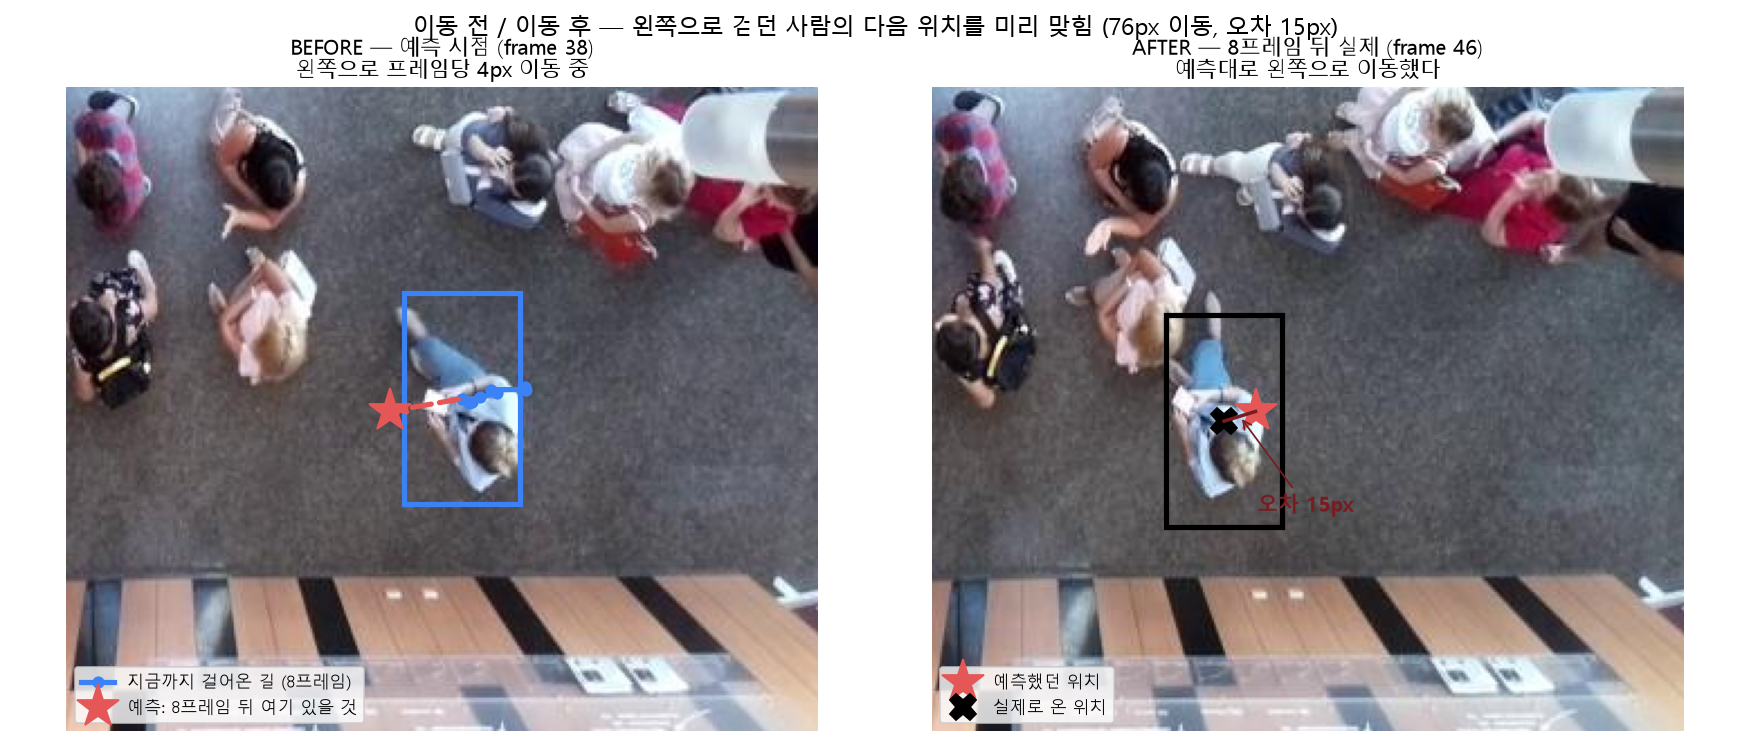
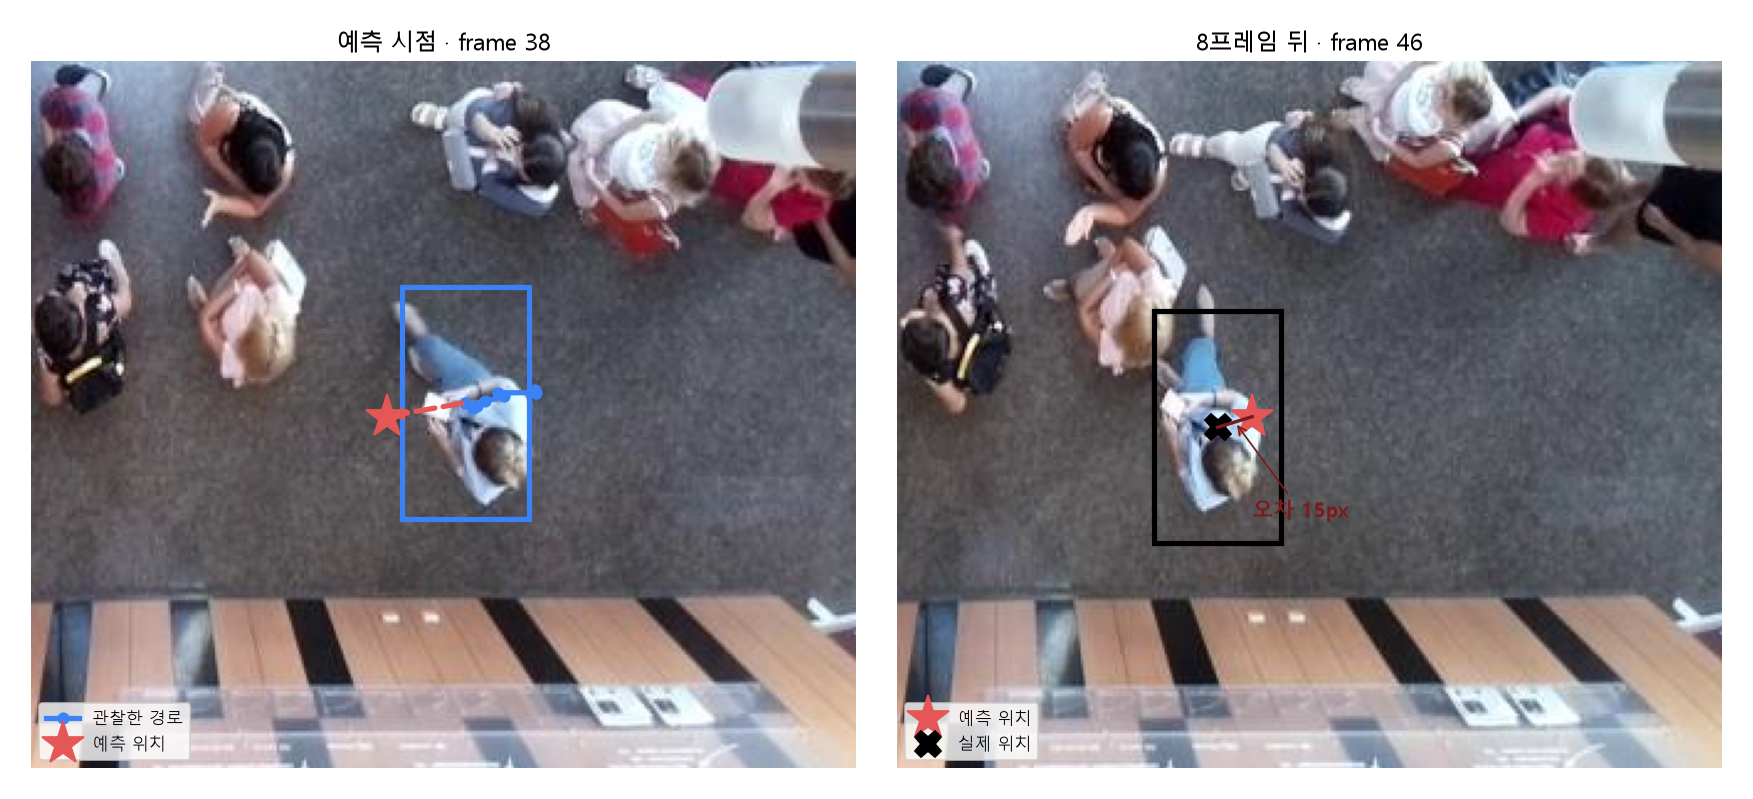
docs: tighten README, move scenario explanation out of the image into a table

diff --git a/trajectory/viz_scenario.py b/trajectory/viz_scenario.py
@@ -80,25 +80,24 @@ fig,axes=plt.subplots(1,2,figsize=(14,6))
 # --- BEFORE: 예측 시점 ---
 ax=axes[0]; ax.imshow(im_now)
 ax.add_patch(plt.Rectangle(((obs[-1,0]-bw/2)*W,(obs[-1,1]-bh/2)*H),bw*W,bh*H,fill=False,ec="#3b82f6",lw=3))
-ax.plot(obs[:,0]*W,obs[:,1]*H,'o-',color="#3b82f6",lw=3,ms=6,label="지금까지 걸어온 길 (8프레임)")
+ax.plot(obs[:,0]*W,obs[:,1]*H,'o-',color="#3b82f6",lw=3,ms=6,label="관찰한 경로")
 ax.annotate("",xy=(pr[-1,0]*W,pr[-1,1]*H),xytext=(obs[-1,0]*W,obs[-1,1]*H),
             arrowprops=dict(arrowstyle="-|>",color="#e45756",lw=3,ls="--"))
-ax.plot(pr[-1,0]*W,pr[-1,1]*H,'*',color="#e45756",ms=26,label="예측: 8프레임 뒤 여기 있을 것")
-ax.set_title(f"BEFORE — 예측 시점 (frame {f_now})\n왼쪽으로 프레임당 {abs(v[0]):.0f}px 이동 중",fontsize=12)
+ax.plot(pr[-1,0]*W,pr[-1,1]*H,'*',color="#e45756",ms=26,label="예측 위치")
+ax.set_title(f"예측 시점 · frame {f_now}",fontsize=13)
 ax.legend(loc="lower left",fontsize=9.5)
 # --- AFTER: 8프레임 뒤 ---
 ax=axes[1]; ax.imshow(im_aft)
-ax.plot(pr[-1,0]*W,pr[-1,1]*H,'*',color="#e45756",ms=26,label="예측했던 위치")
+ax.plot(pr[-1,0]*W,pr[-1,1]*H,'*',color="#e45756",ms=26,label="예측 위치")
 ax.add_patch(plt.Rectangle(((gt[-1,0]-bw/2)*W,(gt[-1,1]-bh/2)*H),bw*W,bh*H,fill=False,ec="k",lw=3))
-ax.plot(gt[-1,0]*W,gt[-1,1]*H,'X',color="k",ms=15,label="실제로 온 위치")
+ax.plot(gt[-1,0]*W,gt[-1,1]*H,'X',color="k",ms=15,label="실제 위치")
 ax.plot([pr[-1,0]*W,gt[-1,0]*W],[pr[-1,1]*H,gt[-1,1]*H],'-',color="#7a1c1f",lw=2)
 ax.annotate(f"오차 {err:.0f}px",xy=((pr[-1,0]+gt[-1,0])/2*W,(pr[-1,1]+gt[-1,1])/2*H),
             xytext=(10,-55),textcoords="offset points",fontsize=12,color="#7a1c1f",weight="bold",
             arrowprops=dict(arrowstyle="->",color="#7a1c1f"))
-ax.set_title(f"AFTER — 8프레임 뒤 실제 (frame {f_after})\n예측대로 왼쪽으로 이동했다",fontsize=12)
+ax.set_title(f"8프레임 뒤 · frame {f_after}",fontsize=13)
 ax.legend(loc="lower left",fontsize=9.5)
 for ax in axes:
     ax.set_xlim(X0,X1); ax.set_ylim(Y1,Y0); ax.axis("off")
-plt.suptitle(f"이동 전 / 이동 후 — 왼쪽으로 걷던 사람의 다음 위치를 미리 맞힘 ({move*640:.0f}px 이동, 오차 {err:.0f}px)",fontsize=13)
-plt.tight_layout(); plt.savefig(OUT/"scenario.png",dpi=125); plt.close()
+plt.tight_layout(); plt.savefig(OUT/"scenario.png",dpi=125,bbox_inches="tight",pad_inches=0.25); plt.close()
 print("saved scenario.png")

diff --git a/README.md b/README.md
@@ -1,16 +1,10 @@
 # cooking-robot-safety — 사람 궤적 예측 & 선제 정지
 
-조리 로봇 셀을 천장 카메라로 감시해, **사람이 다음에 어디로 갈지 예측**하고 위험하면 로봇을 **미리 감속·정지**시킨다. 이 레포는 그중 **궤적 예측 + 안전 판정(SSM)** 부분이다.
-
-> 사람 검출 모델(YOLO11s)은 별도 레포: [chanubc/overhead-person-yolo11](https://github.com/chanubc/overhead-person-yolo11)
+조리 로봇 셀을 천장 카메라로 감시해 사람이 다음에 어디로 갈지 예측하고, 위험하면 로봇을 미리 감속·정지시킨다. 이 레포는 궤적 예측과 안전 판정(SSM) 부분이다. 사람 검출 모델은 별도 레포에 있다: [overhead-person-yolo11](https://github.com/chanubc/overhead-person-yolo11)
 
 ## 왜 예측이 필요한가
 
-로봇 주변에 원을 그려놓고 "들어오면 정지"하면 두 가지가 안 된다.
-- 이미 들어온 뒤에 멈춰서 **늦다**.
-- 옆으로 **지나갈 뿐인 사람**에게도 멈춰서 생산성을 깎는다.
-
-사람의 **속도와 방향**을 알면 "3초 뒤 위험구역에 들어오겠다"를 미리 알 수 있다. 그래서 **선제 정지(안전)** 와 **불필요한 정지 안 함(생산성)** 을 동시에 얻는다.
+로봇 주변에 원을 그려놓고 들어오면 정지하는 방식은 두 가지 문제가 있다. 이미 들어온 뒤에 멈추므로 늦고, 옆으로 지나갈 뿐인 사람에게도 멈춰서 생산성을 깎는다. 사람의 속도와 방향을 알면 "3초 뒤 위험구역에 들어온다"를 미리 판단할 수 있어, 선제 정지와 불필요한 정지 방지를 동시에 얻는다.
 
 ## 입력과 출력
 
@@ -18,119 +12,95 @@
 천장 카메라 → YOLO 검출 → 추적(ID 부여) → [이 레포] 궤적 예측 → SSM 판정 → 로봇 제어
 ```
 
-**입력**: 사람별 최근 위치 시계열 `(시각, x, z)` — 이미지가 아니라 좌표 숫자
-**출력**: 미래 위치 `(시각, x, z, 불확실성)` → 최종 판정 **`run / slow / stop`**
+입력은 사람별 위치 시계열 `(시각, x, z)`, 출력은 미래 위치 `(시각, x, z, 불확실성)`과 최종 판정 `run / slow / stop`이다. 이미지가 아니라 좌표 숫자를 다룬다.
 
-실행 예시 (`python -m trajectory.example`): 사람이 로봇 쪽으로 접근하는 상황
+`python -m trajectory.example` — 사람이 로봇 쪽으로 접근하는 경우:
 
 ```
-입력   history: (2.4, 2.4, 0) (2.6, 2.0, 0) (2.8, 1.6, 0) (3.0, 1.2, 0)   # x가 2.4→1.2로 접근
-출력   t=3.4  x=+0.44  sigma=0.14   ← 0.4초 뒤 위험구역 진입 예측
-       t=5.0  x=-2.68  sigma=0.59   ← 멀수록 불확실성 증가
-판정   "stop"
+입력   (2.4, 2.4, 0) (2.6, 2.0, 0) (2.8, 1.6, 0) (3.0, 1.2, 0)   # x가 2.4에서 1.2로 접근
+출력   t=3.4  x=+0.44  sigma=0.14    0.4초 뒤 위험구역 진입 예측
+       t=5.0  x=-2.68  sigma=0.59    멀수록 불확실성 증가
+판정   stop
 ```
-
----
 
 ## 궤적 데이터를 어디서 얻었나
 
-검출용으로 쓴 [오버헤드 데이터셋](https://universe.roboflow.com/riccardo-kxtut/overhead-person-szky0/dataset/3)은 사실 **24개의 연속 영상**(프레임 0,1,2,…)이다. 그래서 프레임마다 있는 정답 박스를 **겹침(IoU)으로 이어 붙이면 같은 사람에게 ID가 붙고, 그 사람의 (x,y) 이동 경로**가 나온다. 검출용 데이터가 그대로 **궤적 데이터**가 되는 것.
+검출용으로 쓴 [오버헤드 데이터셋](https://universe.roboflow.com/riccardo-kxtut/overhead-person-szky0/dataset/3)은 24개의 연속 영상을 프레임으로 자른 것이다. 프레임마다 있는 정답 박스를 겹침(IoU)으로 이어 붙이면 같은 사람에게 ID가 붙고, 그 사람의 (x, y) 이동 경로가 나온다. 검출용 데이터가 그대로 궤적 데이터가 된다.
 
 ![how](assets/how_trajectories.png)
 
-왼쪽 두 장은 8프레임 차이 — `id 2`, `id 11`, `id 16`이 그대로 유지된다. 오른쪽이 그렇게 만들어진 궤적. 이렇게 **23클립 · 429개 궤적 · 33,633개 학습/평가 구간**을 얻었다.
+왼쪽 두 장은 8프레임 차이이고 `id 2`, `id 11`, `id 16`이 유지된다. 오른쪽이 그렇게 만들어진 궤적이다. 이 방식으로 23개 클립에서 429개 궤적, 33,633개 평가 구간을 얻었다.
 
-## 예측이란 무엇인가
+## 예측 예시 — 이동 전 / 이동 후
 
-과거 8프레임을 보고 다음 8프레임의 위치를 맞히는 것.
-
-![pred](assets/prediction_example.png)
-
-파랑=관찰한 과거, 검정 점선=실제 미래, 빨강=예측. 직진하면 잘 맞고(27px), **방향을 틀면 빗나간다**(65px). 이 "회전에 약함"이 학습형 모델을 검토한 이유다.
-
-### 시나리오 예시 — 이동 전 / 이동 후
-
-실제 데이터에서 뽑은 한 사례 (`cam_1` 영상, `id 11`). **왼쪽이 예측한 시점, 오른쪽이 8프레임 뒤 실제 장면**이다.
+`cam_1` 영상의 `id 11`. 왼쪽이 예측 시점, 오른쪽이 8프레임 뒤 실제 장면이다.
 
 ![scenario](assets/scenario.png)
 
-```
-BEFORE (frame 38)   사람은 아직 오른쪽에 있다
-                    지난 8프레임 동안 x가 476 → 448 (왼쪽으로 프레임당 4px)
-                    예측: "8프레임 뒤엔 (416, 431)에 있을 것"  ← 빨간 별
+| | frame 38 (예측 시점) | frame 46 (8프레임 뒤) |
+|---|---|---|
+| 사람 위치 | (448, 426) — 아직 오른쪽 | (402, 436) — 왼쪽으로 이동 |
+| 관찰된 속도 | 프레임당 왼쪽 4px | |
+| 예측 위치 | (416, 431) | 빨간 별로 표시된 그 자리 |
+| 결과 | | 76px 이동, 오차 15px |
 
-AFTER  (frame 46)   사람이 실제로 왼쪽으로 이동해 (402, 436)에 도착
-                    빨간 별(예측)과 검은 X(실제)가 거의 겹친다
-                    76px 이동했고 예측은 15px 빗나감
-```
+아무도 없는 자리에 빨간 별을 미리 찍어두고, 8프레임 뒤 사람이 실제로 그곳에 왔는지 확인한 것이다. 직진하면 이렇게 잘 맞지만 방향을 틀면 빗나간다(회전 구간 오차 65px). 이 약점이 학습형 모델을 검토한 이유다.
 
-아직 오지 않은 위치를 **미리 찍어두고, 8프레임 뒤에 사람이 실제로 그곳으로 왔는지**를 확인한 것이다. 로봇이 왼쪽에 있었다면 이 시점에 이미 감속을 시작할 수 있다. 반대로 오른쪽에 있었다면 **가까이 있어도 멈추지 않는다** — 멀어지는 중이기 때문.
+## 평가 방법
 
-## 어떻게 테스트했나 — 평가 데이터
+정답이 데이터 안에 있다. 궤적을 16프레임 창으로 자르고 앞 8프레임만 모델에게 보여준 뒤, 가려둔 뒤 8프레임을 얼마나 맞히는지 잰다.
 
-정답이 이미 데이터 안에 있다. 궤적을 **16프레임짜리 창**으로 자르고 반으로 나눈다.
+- **ADE** (Average Displacement Error): 예측한 8개 시점 오차의 평균. 경로 전체 정확도.
+- **FDE** (Final Displacement Error): 마지막 시점의 오차. 최종 도착지 정확도.
 
-```
-[프레임 1~8]  → 모델에게 보여줌 (입력)
-[프레임 9~16] → 가려놓음 (정답)
+둘 다 거리 단위이고 낮을수록 좋다. 창 33,633개를 두 가지 방식으로 나눠 평가했다. 하나는 창을 무작위로 80/20 분할한 것(모델에 유리), 다른 하나는 영상 11개로 학습하고 한 번도 안 본 12개 영상으로 평가한 것(실제 배포에 가까움).
 
-모델이 9~16을 예측 → 가려둔 정답과 비교 → 오차(px)
-```
+## 결과
 
-- **ADE** = 8프레임 전체의 평균 오차, **FDE** = 마지막 프레임의 오차
-- 이런 창을 **33,633개** 만들어 전부 채점
-- 두 가지 방식으로 나눠서 평가:
-  - **같은 영상으로 학습·평가** — 창을 무작위로 80/20 분할 (모델에 유리한 조건)
-  - **다른 영상으로 평가** — 영상 11개로 학습하고 **한 번도 안 본 나머지 12개 영상**으로 평가 (실제 배포에 가까운 조건)
+`python -m trajectory.overhead_lstm` (천장뷰, 640px 환산)
 
-## LSTM은 실제로 학습시켰나
-
-**그렇다.** PyTorch로 RTX 5070에서 매번 새로 학습한다 (LSTM 128차원 + 2층 MLP, 약 10만 파라미터, 300에폭). 입력은 관찰 구간의 프레임간 이동량, 출력은 미래 8프레임 위치다.
-
-단 **가중치 파일은 저장하지 않는다.** 지금 LSTM은 "학습형이 이득인가"를 재는 **비교 실험**이지 배포할 모델이 아니기 때문이다. 배포용으로 학습·저장하는 건 실제 조리실 궤적 데이터가 확보된 뒤다. 등속과 칼만은 학습이 필요 없다(파라미터 0개).
-
-## 결과 — 등속 vs 칼만 vs LSTM
-
-`python -m trajectory.overhead_lstm` (천장뷰 · 640px 환산) · `python -m trajectory.eth_eval` (공개 보행자 데이터 ETH)
-
-| 천장뷰 데이터 | ADE | FDE |
+| | ADE | FDE |
 |---|---|---|
 | **같은 영상으로 학습·평가** | | |
 | 등속 | 8.3 | 13.8 |
 | 칼만 | 8.6 | 14.2 |
-| LSTM | **7.1** | **10.8** |
-| **다른 영상으로 평가** (분포 이동) | | |
-| 등속 | **6.2** | **10.2** |
+| LSTM | 7.1 | 10.8 |
+| **다른 영상으로 평가** | | |
+| 등속 | 6.2 | 10.2 |
 | 칼만 | 6.5 | 10.5 |
 | LSTM | 6.8 | 10.6 |
 
-**공개 데이터(ETH)에서도 같은 패턴**: 같은 분포면 LSTM 우세(ADE 0.37 vs 0.46 m), 분포가 다르면 LSTM이 크게 무너짐(2.39 vs 0.55 m).
+공개 보행자 데이터(ETH)에서도 같은 패턴이 나온다(`python -m trajectory.eth_eval`). 같은 분포면 LSTM 우세(ADE 0.37 vs 칼만 0.46 m), 분포가 다르면 LSTM이 크게 무너진다(2.39 vs 0.55 m).
 
-### 결론
-1. **LSTM은 "배포 환경과 같은 분포의 데이터"가 있을 때만 이득**이다. 없으면 오히려 나빠진다.
-2. 천장뷰에서 사람은 느려서 **오차가 프레임의 1~2%** 수준 — 등속·칼만만으로도 충분히 쓸 만하다.
-3. 그래서 **칼만을 기본값**으로 하고, 실제 조리실 궤적 데이터가 쌓이면 그때 학습형으로 올린다.
+정리하면 세 가지다. LSTM은 배포 환경과 같은 분포의 데이터가 있을 때만 이득이고, 없으면 오히려 나빠진다. 천장뷰에서 사람은 느려서 오차가 프레임의 1~2% 수준이라 등속과 칼만만으로도 쓸 만하다. 따라서 칼만을 기본값으로 하고, 실제 조리실 궤적 데이터가 쌓이면 그때 학습형으로 올린다.
 
-> 검출 노이즈가 섞이면 칼만이 등속보다 유리하다(합성 실험 기준 ADE 0.23 vs 0.33 m). 위 표는 정답 박스를 쓴 것이라 노이즈가 없어 등속이 불리하지 않았다.
-> 표의 평균은 거의 멈춰 있는 사람까지 포함한 값이다. 실제로 이동 중인 구간만 보면 FDE 중앙값은 27px.
+검출 노이즈가 섞이면 칼만이 등속보다 유리하다(합성 실험 ADE 0.23 vs 0.33 m). 위 표는 정답 박스를 써서 노이즈가 없었기 때문에 등속이 불리하지 않았다. 표의 평균은 거의 멈춰 있는 사람까지 포함한 값이며, 이동 중인 구간만 보면 FDE 중앙값은 27px이다.
 
-## 실제 조리 CCTV에서 확인한 한계
+## 지금 막혀 있는 곳: 검출
 
-실제 조리 로봇 CCTV에 검출 모델을 돌려보니, **천장뷰로 학습한 모델이 각진 CCTV 화각에서 실패**했다(실제 작업자 미탐 + 설비 오탐). 위생모는 문제가 아니었고, **카메라 각도 불일치**와 **은색 커버 로봇팔 오탐**이 진짜 난제였다. 자세한 근거 이미지는 [검출 레포](https://github.com/chanubc/overhead-person-yolo11) 참고.
+파이프라인이 검출에서 시작하므로 검출이 사람을 놓치면 궤적도 예측도 성립하지 않는다. 실제 조리 CCTV 한 편(61프레임, 프레임 단위 정답 라벨)으로 재보니 천장뷰로 파인튜닝한 모델이 stock YOLO보다 나빴다.
 
-## 설계 — 예측기는 갈아끼울 수 있다
+| conf 0.25 | 사람 검출률 | 사람 없는 프레임 오탐 |
+|---|---|---|
+| 천장뷰 파인튜닝 | 72.4% | 3장 중 3장 |
+| stock yolo11s | 82.8% | 0장 |
+
+학습 데이터는 천장 수직 시점인데 실제 CCTV는 비스듬한 각도라 화각이 다르다. 실제 화각의 조리실 영상으로 재학습해야 하며, 그 전까지 궤적 예측은 정답 박스나 시뮬 좌표로만 검증 가능하다. 자세한 근거는 [검출 레포](https://github.com/chanubc/overhead-person-yolo11) 참고.
+
+## 설계
 
 ```
 predict(TrackScene) → Prediction
    등속 · 칼만 · (미래) LSTM · Trajectron++
 ```
 
-입력 규격은 처음부터 **여러 사람 + 여러 갈래 미래 + 불확실성**을 담게 만들었다. 그래서 예측기를 바꿔도 앞단(추적)과 뒷단(SSM 판정)은 수정할 필요가 없다. 브라우저에서 못 돌리는 무거운 모델이 필요해지면 **엣지 PC(온프레미스)로 옮기기만** 하면 된다.
+입력 규격은 처음부터 여러 사람, 여러 갈래 미래, 불확실성을 담게 만들었다. 그래서 예측기를 바꿔도 앞단(추적)과 뒷단(SSM 판정)은 수정할 필요가 없다. 브라우저에서 못 돌리는 무거운 모델이 필요해지면 엣지 PC로 옮기기만 하면 된다.
 
 ## 현황
 
-**된 것** — 인터페이스 규격 · 등속/칼만 예측기 · ADE/FDE 평가 · SSM 3단계 판정 (테스트 9개 통과) · 천장뷰/ETH 벤치마크
-**남은 것** — 시뮬 연결 · 실제 검출→추적 파이프라인 붙이기 · 안전지표(선제정지 성공률/오정지율) 실측 · 브라우저 데모
+구현 완료: 인터페이스 규격, 등속·칼만 예측기, ADE/FDE 평가, SSM 3단계 판정(테스트 9개 통과), 천장뷰·ETH 벤치마크.
+
+남은 일: 실제 화각 검출 모델 재학습, 검출에서 추적까지 실제 파이프라인 연결, 안전지표(선제정지 성공률·오정지율) 실측, 브라우저 데모.
 
 ## 실행
 
@@ -142,6 +112,6 @@ python -m trajectory.overhead_lstm  # 천장뷰 벤치마크
 python -m trajectory.eth_eval       # ETH 벤치마크 (데이터 자동 다운로드)
 ```
 
-> `trajectory/types.py`가 표준 `types` 모듈과 이름이 겹치므로 반드시 `python -m ...` 로 실행한다.
+`trajectory/types.py`가 표준 `types` 모듈과 이름이 겹치므로 `python -m` 으로 실행해야 한다.
 
-설계 문서: `docs/design.md` · 라이선스: MIT
+설계 문서는 `docs/design.md`에 있다. 라이선스 MIT.
